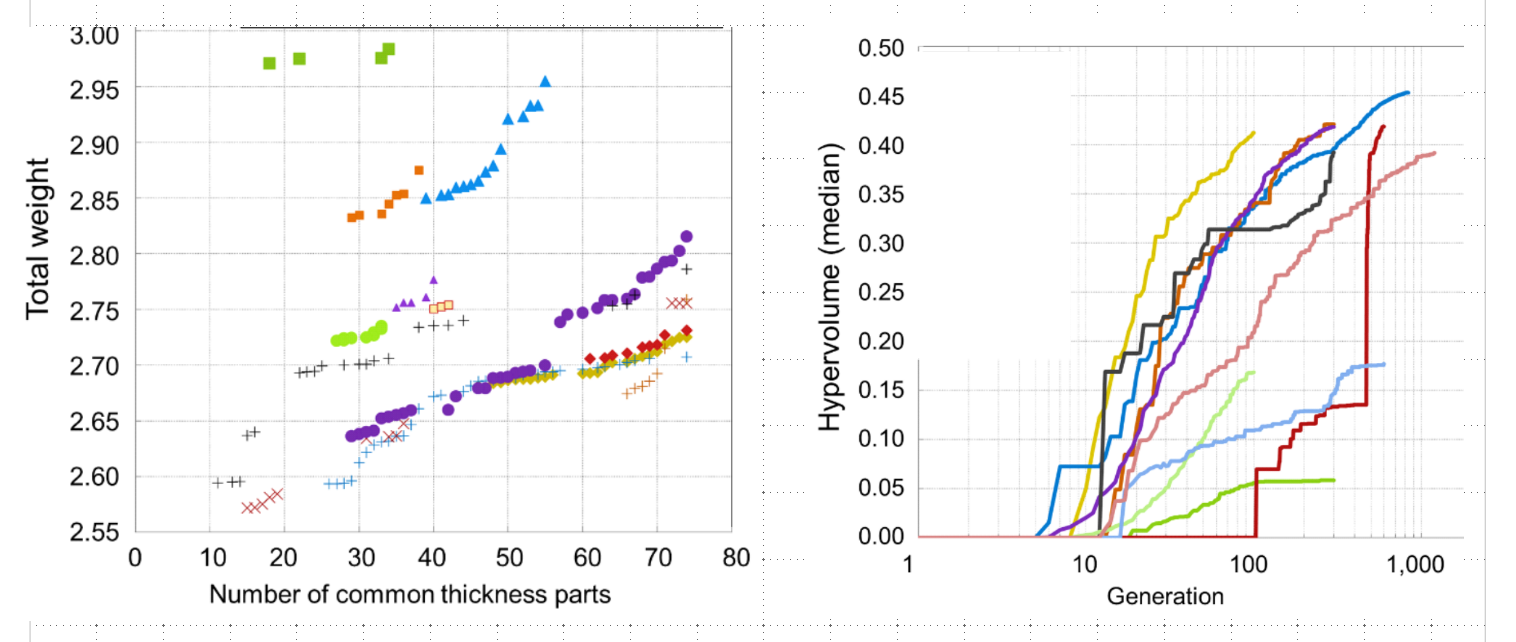
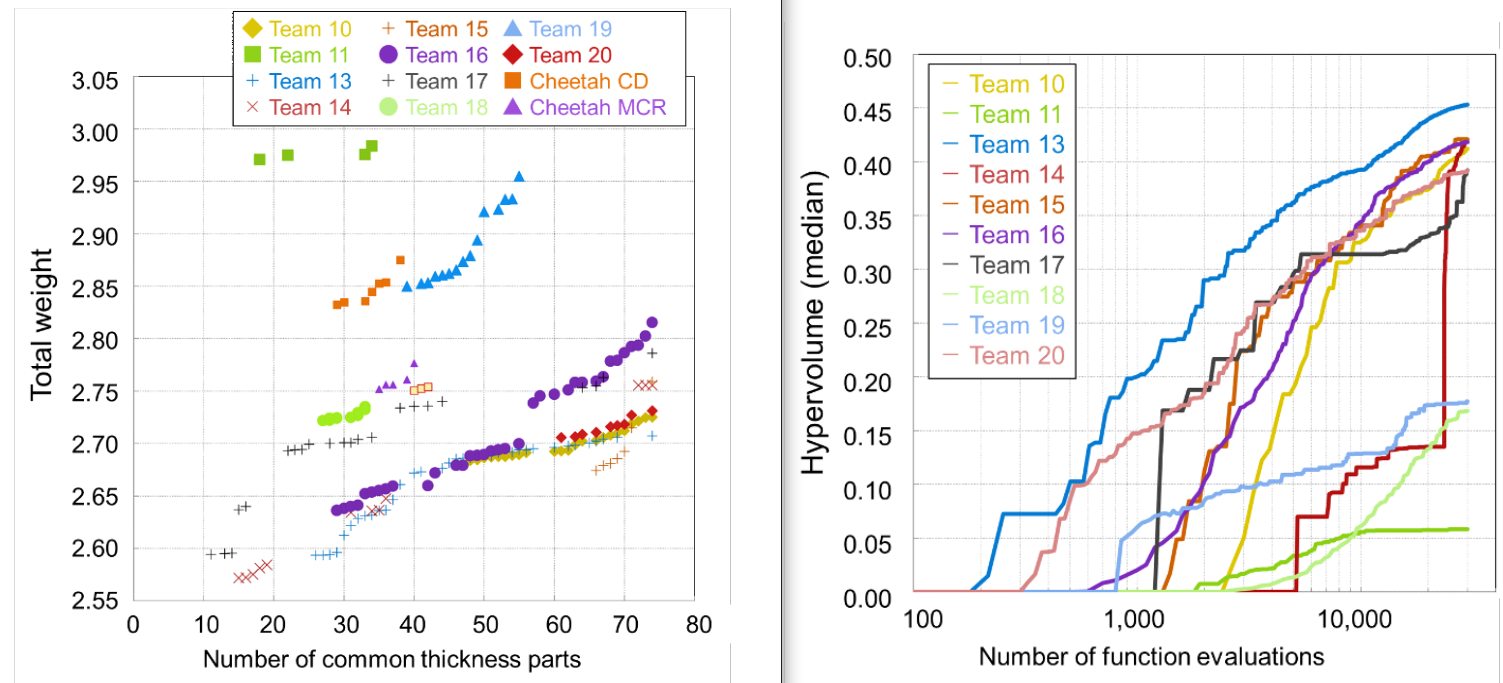
v1.5.4

diff --git a/fcmaes/diversifier.py b/fcmaes/diversifier.py
@@ -44,7 +44,7 @@ def minimize(qd_fitness: Callable[[ArrayLike], Tuple[float, np.ndarray]],
             desc_bounds: Bounds,
             niche_num: Optional[int] = 4000,
             samples_per_niche: Optional[int] = 20,
-            retries: Optional[int] = None,
+            max_evals: Optional[int] = None,
             workers: Optional[int] = mp.cpu_count(),
             archive: Optional[Archive] = None,
             opt_params: Optional[Dict] = {},
@@ -75,8 +75,8 @@ def minimize(qd_fitness: Callable[[ArrayLike], Tuple[float, np.ndarray]],
         Number of niches.
     samples_per_niche : int, optional
         Number of samples used for niche computation.  
-    retries : int, optional
-        Number of optimization runs.
+    max_evals : int, optional
+        Number of fitness evaluations.
     workers : int, optional
         Number of spawned parallel worker processes.
     archive : Archive, optional
@@ -102,8 +102,8 @@ def minimize(qd_fitness: Callable[[ArrayLike], Tuple[float, np.ndarray]],
     archive : Archive
         Resulting archive of niches. Can be stored for later continuation of MAP-elites."""
 
-    if retries is None:
-        retries = workers
+    if max_evals is None:
+        max_evals = workers*50000
     dim = len(bounds.lb)
     if archive is None: 
         archive = Archive(dim, desc_bounds, niche_num)
@@ -111,10 +111,8 @@ def minimize(qd_fitness: Callable[[ArrayLike], Tuple[float, np.ndarray]],
         # initialize archive with random values
         archive.set_xs(rng.uniform(bounds.lb, bounds.ub, (niche_num, dim)))         
     t0 = perf_counter()   
-    qd_fitness.archive = archive # attach archive for logging
-    count = mp.RawValue(ct.c_long, 0)      
-    minimize_parallel_(archive, qd_fitness, bounds, workers, 
-                       opt_params, count, retries)
+    qd_fitness.archive = archive # attach archive for logging     
+    minimize_parallel_(archive, qd_fitness, bounds, workers, opt_params, max_evals)
     if not logger is None:
         ys = np.sort(archive.get_ys())[:min(100, archive.capacity)] # best fitness values
         logger.info(f'best {min(ys):.3f} worst {max(ys):.3f} ' + 
@@ -137,7 +135,8 @@ def apply_advretry(fitness: Callable[[ArrayLike], float],
     to find the global optimum. Finally the updated store is feed back into
     the QD-archive. For this we need a descriptor generating function 
     'descriptors' which may require reevaluation of the new solutions.  
-    
+     
+                         
      
     Parameters
     ----------
@@ -170,7 +169,8 @@ def apply_advretry(fitness: Callable[[ArrayLike], float],
         optimizer = de_cma(1500)
     # generate advretry store
     store = advretry.Store(fitness, bounds, num_retries=num_retries, 
-                           max_eval_fac=max_eval_fac, logger=logger) 
+                           max_eval_fac=max_eval_fac, logger=logger)  
+                         
     # select only occupied entries
     ys = archive.get_ys()    
     valid = (ys < np.inf)
@@ -195,54 +195,54 @@ def apply_advretry(fitness: Callable[[ArrayLike], float],
         logger.info(f'best {min(ys):.3f} worst {max(ys):.3f} ' + 
                  f'mean {np.mean(ys):.3f} stdev {np.std(ys):.3f} time {dtime(t0)} s')    
 
-def minimize_parallel_(archive, fitness, bounds, workers, 
-                         opt_params, count, retries):
+def minimize_parallel_(archive, fitness, bounds, workers, opt_params, max_evals):
     sg = SeedSequence()
     rgs = [Generator(MT19937(s)) for s in sg.spawn(workers)]
-    stopProcess = mp.RawValue(ct.c_bool, False)
+    evals = mp.RawValue(ct.c_long, 0)
     proc=[Process(target=run_minimize_,
             args=(archive, fitness, bounds, rgs[p],
-                  opt_params, count, retries, p, stopProcess)) for p in range(workers)]
+                  opt_params, p, workers, evals, max_evals)) for p in range(workers)]
     [p.start() for p in proc]
     [p.join() for p in proc]
                     
-def run_minimize_(archive, fitness, bounds, rg, opt_params, count, retries, p, stopProcess):  
+def run_minimize_(archive, fitness, bounds, rg, opt_params, p, workers, evals, max_evals):  
     with threadpoolctl.threadpool_limits(limits=1, user_api="blas"):
         if isinstance(opt_params, (list, tuple, np.ndarray)):
             for params in opt_params: # call MAP-Elites
-                if 'elites' == params.get('solver') and int(p % opt_params[0].get('use', 2)) == 0:  
-                    #print('elites ' + str(p) + ' started') 
-                    run_map_elites_(archive, fitness, bounds, rg, stopProcess, params)
-                    #print('elites '+ str(p) + ' finished')
-                    return
-        while count.value < retries: # call solvers in loop
-            count.value += 1      
+                if 'elites' == params.get('solver'):
+                    elites_workers = params.get('workers', int(workers/2)) 
+                    if p < elites_workers:
+                        run_map_elites_(archive, fitness, bounds, rg, evals, max_evals, params)
+                        return
+        select_n = archive.capacity
+        while evals.value < max_evals: # call solvers in loop     
             best_x = None
             if isinstance(opt_params, (list, tuple, np.ndarray)):
                 for params in opt_params: # call in sequence
                     if 'elites' == params.get('solver'):
-                        continue
-        #           print(params.get('solver') + str(p) + ' started')
+                        continue # is elites thread
                     if best_x is None:
-                        best_x = minimize_(archive, fitness, bounds, rg, stopProcess, p, params)
+                        # selecting a niche elite is no improvement over random x0
+                        x0 = None#, _, _ = archive.random_xs_one(select_n, rg)
+                        best_x = minimize_(archive, fitness, bounds, rg, evals, max_evals, params, 
+                                           x0 = x0)
                     else:
-                        best_x = minimize_(archive, fitness, bounds, rg, stopProcess, p, params, x0 = best_x)
-        #           print(params.get('solver') + str(p) + ' finished')
+                        best_x = minimize_(archive, fitness, bounds, rg, evals, max_evals, params, x0 = best_x)
             else:        
-                    minimize_(archive, fitness, bounds, rg, opt_params) 
-        stopProcess.value = True # stop all processes      
+                minimize_(archive, fitness, bounds, rg, evals, opt_params)
+            select_n = archive.get_occupied()     
 
 from fcmaes.mapelites import variation_,  iso_dd_
                 
-def run_map_elites_(archive, fitness, bounds, rg, stopProcess, opt_params = {}):    
+def run_map_elites_(archive, fitness, bounds, rg, evals, max_evals, opt_params = {}):    
     popsize = opt_params.get('popsize', 32)  
     use_sbx = opt_params.get('use_sbx', True)     
     dis_c = opt_params.get('dis_c', 20)   
     dis_m = opt_params.get('dis_m', 20)  
-    iso_sigma = opt_params.get('iso_sigma', 0.1)
+    iso_sigma = opt_params.get('iso_sigma', 0.01)
     line_sigma = opt_params.get('line_sigma', 0.2)
     select_n = archive.capacity
-    while not stopProcess.value:                
+    while evals.value < max_evals:              
         if use_sbx:
             pop = archive.random_xs(select_n, popsize, rg)
             xs = variation_(pop, bounds.lb, bounds.ub, rg, dis_c, dis_m)
@@ -251,28 +251,30 @@ def run_map_elites_(archive, fitness, bounds, rg, stopProcess, opt_params = {}):
             x2 = archive.random_xs(select_n, popsize, rg)
             xs = iso_dd_(x1, x2, bounds.lb, bounds.ub, rg, iso_sigma, line_sigma)    
         yds = [fitness(x) for x in xs]
+        evals.value += popsize
         descs = np.array([yd[1] for yd in yds])
         niches = archive.index_of_niches(descs)
         for i in range(len(yds)):
             archive.set(niches[i], yds[i], xs[i])
         archive.argsort()   
-        select_n = archive.get_occupied()   
+        select_n = archive.get_occupied()  
 
-def minimize_(archive, fitness, bounds, rg, stopProcess, p, opt_params, x0 = None): 
+def minimize_(archive, fitness, bounds, rg, evals, max_evals, opt_params, x0 = None): 
     if 'BITE_CPP' == opt_params.get('solver'):
-        return run_bite_(archive, fitness, bounds, rg, stopProcess, p, opt_params, x0 = None)
+        return run_bite_(archive, fitness, bounds, rg, evals, max_evals, opt_params, x0 = None)
     else:
-        es = get_solver_(bounds, opt_params, rg, p, x0) 
-        max_evals = opt_params.get('max_evals', 50000)
+        es = get_solver_(bounds, opt_params, rg, x0) 
         stall_criterion = opt_params.get('stall_criterion', 20)
+        max_evals_iter = opt_params.get('max_evals', 50000)
+        max_iters = int(max_evals_iter/es.popsize)
         old_ys = None
         last_improve = 0
-        max_iters = int(max_evals/es.popsize)
         best_x = None
         best_y = np.inf
         for iter in range(max_iters):
             xs = es.ask()
             ys, real_ys = update_archive(archive, xs, fitness)
+            evals.value += es.popsize
             # update best real fitness
             yi = np.argmin(real_ys)
             ybest = real_ys[yi] 
@@ -285,33 +287,33 @@ def minimize_(archive, fitness, bounds, rg, stopProcess, p, opt_params, x0 = Non
             if last_improve + stall_criterion < iter:
                 break
             stop = es.tell(ys)
-            if stop != 0 or stopProcess.value:
-                #print('stop = ', stop)
+            if stop != 0 or evals.value >= max_evals:
                 break 
             old_ys = np.sort(ys)
         return best_x # real best solution
 
 from fcmaes import cmaes, cmaescpp, crfmnescpp, pgpecpp, decpp, crfmnes, de, bitecpp
 
-def run_bite_(archive, fitness, bounds, rg, stopProcess, p, opt_params, x0 = None):  
+def run_bite_(archive, fitness, bounds, rg, evals, max_evals, opt_params, x0 = None):  
     # BiteOpt doesn't support ask/tell, so we have to "patch" fitness. Note that Voronoi 
     # tesselation is more expensive if called for single behavior vectors and not for batches. 
     
     def fit(x: Callable[[ArrayLike], float]):
-        if stopProcess.value:
+        if evals.value >= max_evals:
             return np.inf
+        evals.value += 1
         ys, _ = update_archive(archive, [x], fitness)
         return ys[0]
     
-    max_evals = opt_params.get('max_evals', 50000)     
+    max_evals_iter = opt_params.get('max_evals', 50000)       
     stall_criterion = opt_params.get('stall_criterion', 20)   
     popsize = opt_params.get('popsize', 0) 
     ret = bitecpp.minimize(fit, bounds, x0 = x0, M = 1, 
-                           stall_criterion = stall_criterion, popsize = popsize,
-                           max_evaluations = max_evals, rg = rg, runid = p)
+                           stall_criterion = stall_criterion,
+                           max_evaluations = max_evals_iter, rg = rg, runid = p)
     return ret.x   
 
-def get_solver_(bounds, opt_params, rg, p, x0 = None):
+def get_solver_(bounds, opt_params, rg, x0 = None):
     dim = len(bounds.lb)
     popsize = opt_params.get('popsize', 31) 
     sigma = opt_params.get('sigma',rg.uniform(0.03, 0.3)**2)

diff --git a/fcmaes/mapelites.py b/fcmaes/mapelites.py
@@ -318,6 +318,7 @@ class Archive(object):
         self.name = name
         self.cs = None
         self.index_of_niches = None
+        self.lock = mp.Lock()
         self.reset()
     
     def reset(self):
@@ -417,12 +418,13 @@ class Archive(object):
                      i: int, 
                      x: np.ndarray):
         """Updates solution statistics."""
-        count = self.counts[i] + 1
+        with self.lock:
+            self.counts[i] += 1
+        count = self.counts[i]
         mean = self.get_x_mean(i)
         diff = x - mean        
         self.set_stat(i, 0, mean + diff * (1./count)) # mean
-        self.set_stat(i, 1, self.get_stat(i, 1) + np.multiply(diff,diff) * ((count-1)/count)) # qmean              
-        self.counts[i] = count # count      
+        self.set_stat(i, 1, self.get_stat(i, 1) + np.multiply(diff,diff) * ((count-1)/count)) # qmean                  
         self.set_stat(i, 2, np.minimum(x, self.get_stat(i, 2))) # min
         self.set_stat(i, 3, np.maximum(x, self.get_stat(i, 3))) # max
  
@@ -582,12 +584,14 @@ class wrapper(object):
         self.logger = logger
         self.interval = interval
         self.save_interval = save_interval
+        self.lock = mp.Lock()
         
     def __call__(self, x: ArrayLike):
         try:
             if np.isnan(x).any():
                 return np.inf, np.zeros(self.desc_dim)
-            self.evals.value += 1
+            with self.lock:
+                self.evals.value += 1
             log = self.evals.value % self.interval == 0
             save = self.evals.value % self.save_interval == 0
             y, desc = self.fit(x)

diff --git a/examples/elitescass2.py b/examples/elitescass2.py
@@ -134,18 +134,17 @@ def plot(name):
 def run_diversifier():
     name = 'cass2div'
     problem = Cassini2_me(Cassini2())
-    opt_params0 = {'solver':'elites', 'popsize':1000, 'use':2}
-    opt_params1 = {'solver':'DE_CPP', 'max_evals':50000, 'popsize':31, 'stall_criterion':3}
-    opt_params2 = {'solver':'CMA_CPP', 'max_evals':100000, 'popsize':31, 'stall_criterion':3}
+    opt_params0 = {'solver':'elites', 'popsize':96, 'workers':16}
+    opt_params1 = {'solver':'DE_CPP', 'max_evals':50000, 'popsize':32, 'stall_criterion':3}
+    opt_params2 = {'solver':'CMA_CPP', 'max_evals':100000, 'popsize':32, 'stall_criterion':3}
     archive = diversifier.minimize(
          mapelites.wrapper(problem.qd_fitness, 2), problem.bounds, problem.desc_bounds, 
-         workers = 32, opt_params=[opt_params0, opt_params1, opt_params2], retries=2000)
-    
+         workers = 32, opt_params=[opt_params0, opt_params1, opt_params2], max_evals=2000000*32)
     diversifier.apply_advretry(wrapper(problem.fitness), problem.descriptors, problem.bounds, archive, 
-                               num_retries=2000)
+                               num_retries=40000)
+    print('final archive:', archive.info())
     archive.save(name)
     plot_archive(archive)
-    print('final archive:', archive.info())
    
 def run_map_elites():
     problem = Cassini2_me(Cassini2())
@@ -174,7 +173,7 @@ def run_map_elites():
 
 if __name__ == '__main__':
     
-    run_map_elites()
-    #run_diversifier()
+    #run_map_elites()
+    run_diversifier()
     #plot('cass2')
     pass

diff --git a/fcmaes/mode.py b/fcmaes/mode.py
@@ -681,10 +681,13 @@ class wrapper(object):
         self.plot = plot
         self.name = name
         self.logger = logger
+        self.lock = mp.Lock()
     
     def __call__(self, x: ArrayLike) -> np.ndarray:
         try:
             y = self.fun(x)
+            with self.lock:
+                self.evals.value += 1
             if not self.store is None and is_feasible(y, self.nobj):
                 self.store.add_result(x, y[:self.nobj])
             improve = False
@@ -693,7 +696,6 @@ class wrapper(object):
                     improve = True 
                     self.best_y[i] = y[i] 
             improve = improve and self.n_evals.value > 100
-            self.n_evals.value += 1
             if self.n_evals.value % self.interval == 0 or improve:
                 constr = np.maximum(y[self.nobj:], 0) 
                 self.logger.info(

diff --git a/fcmaes/optimizer.py b/fcmaes/optimizer.py
@@ -84,10 +84,12 @@ class wrapper(object):
         self.best_y = mp.RawValue(ct.c_double, np.inf) 
         self.t0 = time.perf_counter()
         self.logger = logger
+        self.lock = mp.Lock()
 
     def __call__(self, x: ArrayLike) -> float:
         try:
-            self.evals.value += 1
+            with self.lock:
+                self.evals.value += 1
             y = self.fit(x)
             y0 = y if np.isscalar(y) else sum(y)
             if y0 < self.best_y.value:

diff --git a/examples/__init__.py b/examples/__init__.py
@@ -3,7 +3,7 @@
 # This source code is licensed under the MIT license found in the
 # LICENSE file in the root directory.
 
-__version__ = '1.5.3'
+__version__ = '1.5.4'
 
 __all__ = [
     'advexamples'

diff --git a/fcmaes/__init__.py b/fcmaes/__init__.py
@@ -3,7 +3,7 @@
 # This source code is licensed under the MIT license found in the
 # LICENSE file in the root directory.
 
-__version__ = '1.5.3'
+__version__ = '1.5.4'
 
 __all__ = [
     'cmaes',
